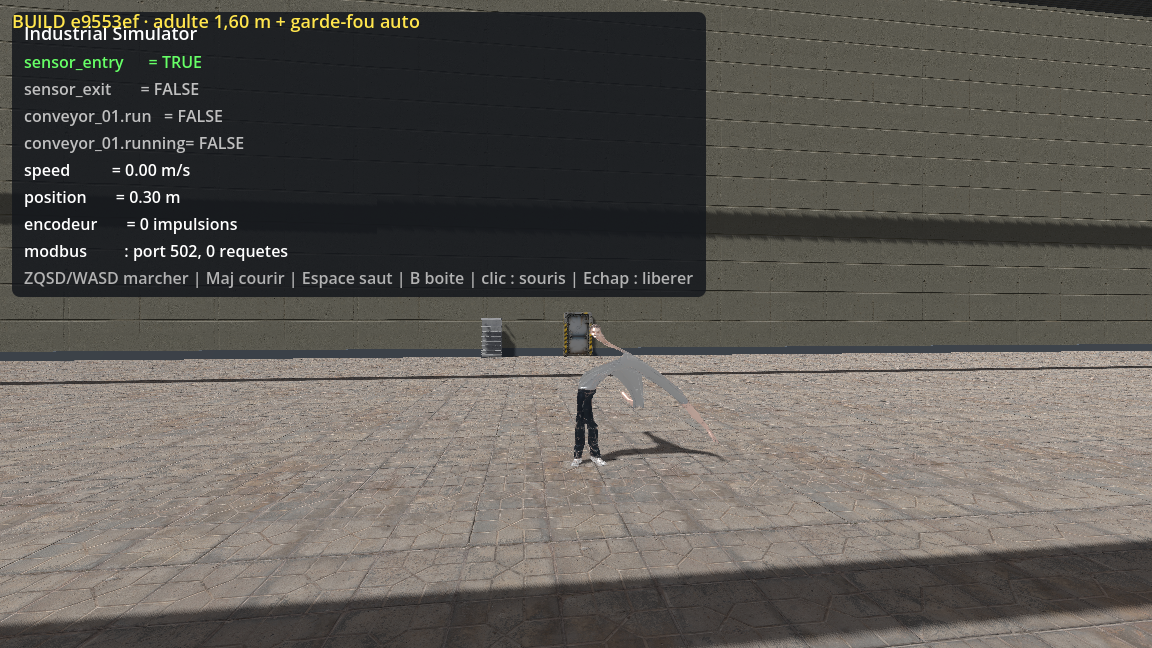
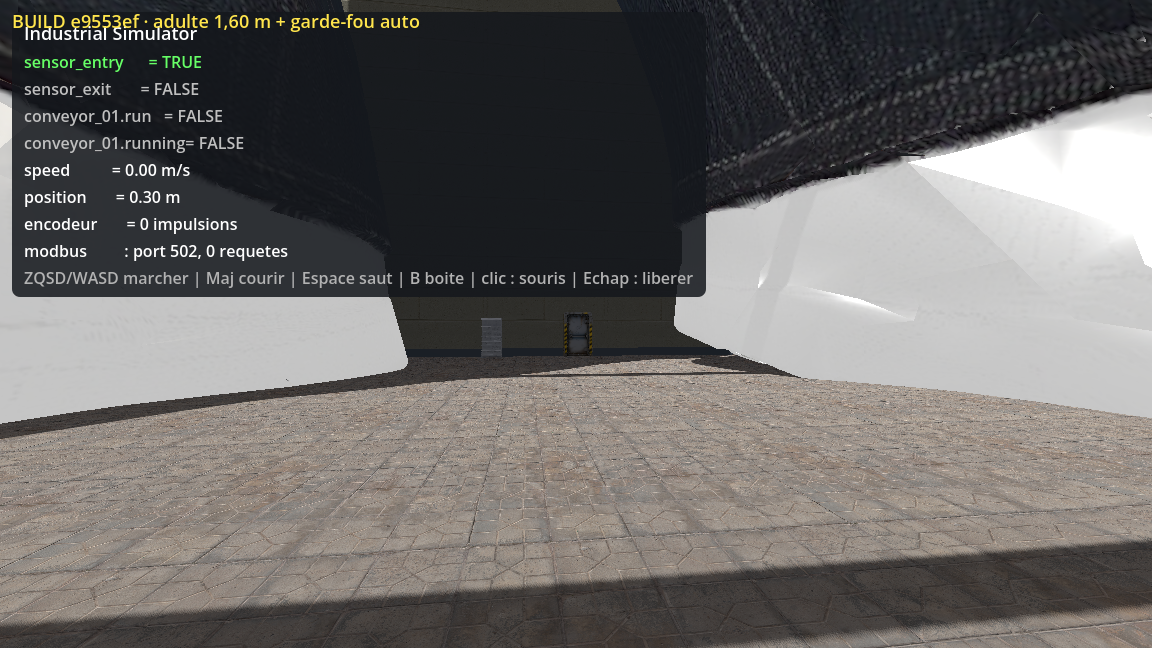
fix: retour au personnage anime d'origine + garde-fou bavant + eviction pair Modbus mort
- personnage : retour a adult_waving.glb (fichier d'origine, seule
  retouche = POSITION x100 necessaire : sans elle le modele fait 1,7 cm)
- garde-fou d'echelle : trace au demarrage ('garde-fou adulte actif :
  N os surveilles') et a chaque recalage avec la hauteur mesuree —
  diagnostiquable depuis la console (run_3d_console.bat)
- verifie en capture : maillage intact, salut anime, ~1,60 m (le garde-
  fou recalle la tete de 1,72-1,75 m a 1,60 m en direct)
- modbus_tcp_server : un pair dont le socket est mort pour l'OS
  (fermeture sale, statut Godot encore CONNECTED) est evince au lieu de
  spammer '!is_open()' a chaque poll ; test de regression ajoute
  (fermeture du client -> pair evince) — 410 assertions, 0 echec

diff --git a/simulator/assets/CREDITS.md b/simulator/assets/CREDITS.md
@@ -32,11 +32,11 @@ de produit commercial — voir la règle 9 de CONTRIBUTING.md).
   mètres et squelette en centimètres (racine `scale 0.01`) — les données
   POSITION du maillage ont été multipliées par 100 pour rétablir la cohérence
   skinnage/animation.
-* `adult_static.glb` : pose de salut figée en maillage statique (sans
-  squelette — aucune dérive d'échelle possible au rendu), générée par
-  `scripts/bake_static_adult.py` (convention IBM vérifiée par
-  `scripts/diag_skinning.py` : G avec échelle Armature × IBM transposée =
-  identité exacte au repos), normalisée à 1,60 m pieds au sol.
+* `adult_static.glb` : variante STATIQUE de secours (pose de salut figée,
+  sans squelette), générée par `scripts/bake_static_adult.py` (convention
+  IBM vérifiée par `scripts/diag_skinning.py`). Non utilisée par défaut :
+  la scène charge le modèle animé `adult_waving.glb`, surveillé par un
+  garde-fou d'échelle par frame (`ui/adult_scale_guard.gd`).
 
 ## Équipements de sécurité (dossier `safety/`)
 
